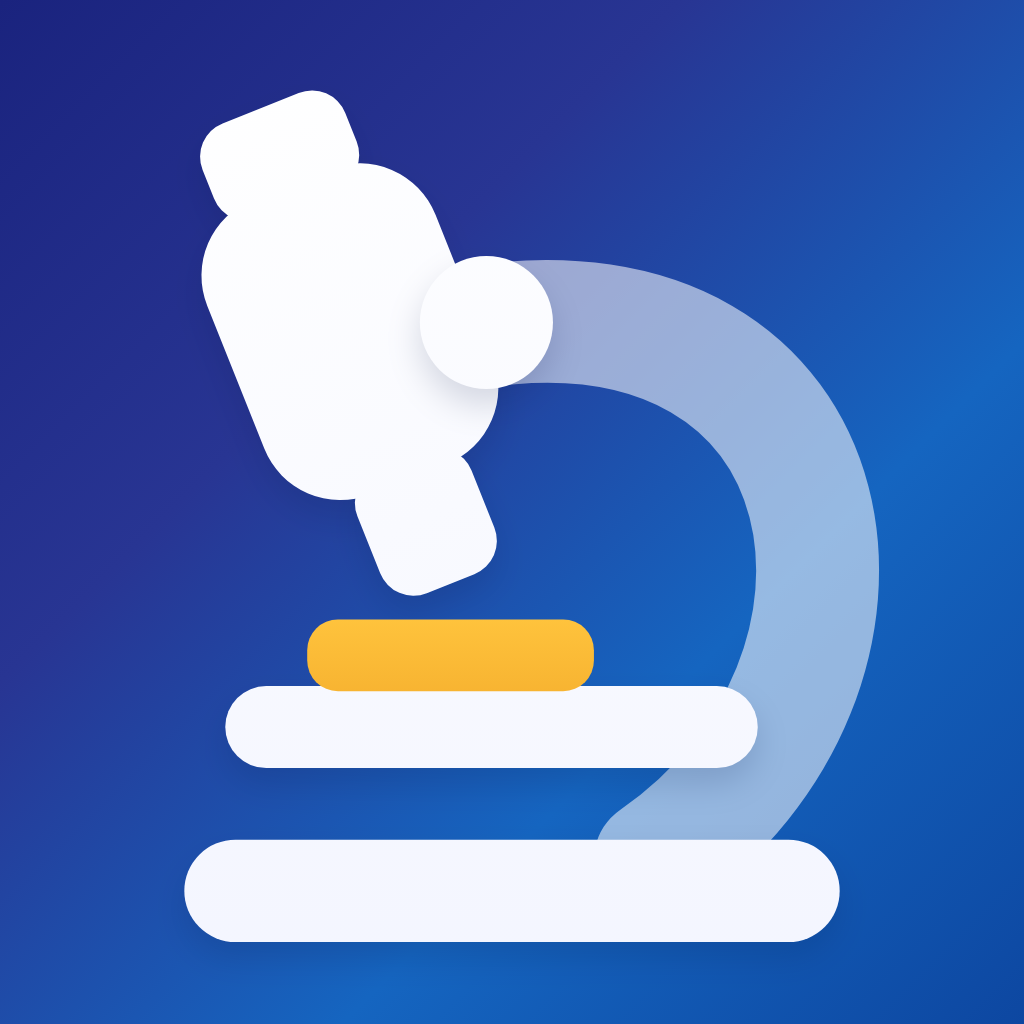
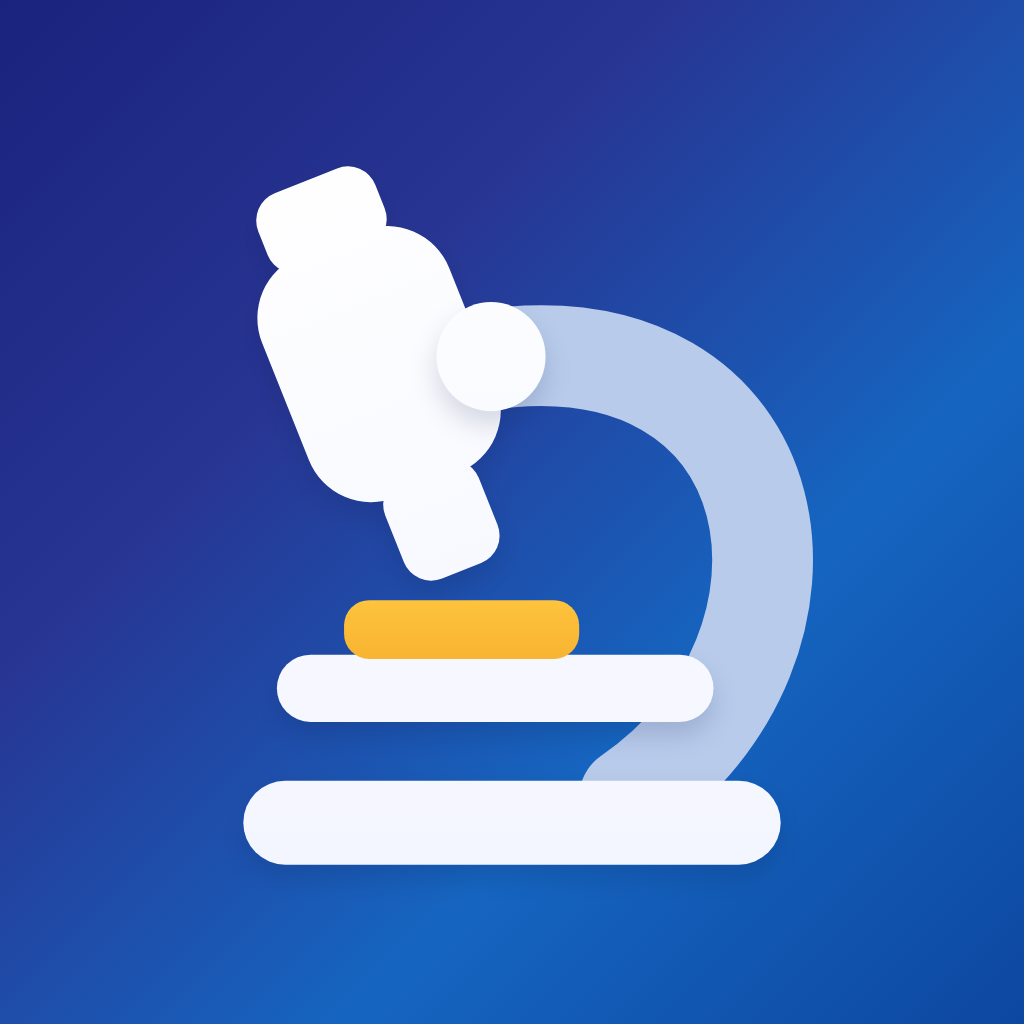
Icône : bras opaque et zone sûre adaptative respectée
Paramètre optionnel bras sur MicroscopeIcon (rendu par défaut inchangé). Calque de premier plan complet à 59 % de hauteur, icône carrée ramenée à 68 %.

Changed region(s): [[0.1562, 0.0625, 0.875, 0.9375], [0.4688, 0.4688, 0.5, 0.5312], [0.4375, 0.4375, 0.4688, 0.4688]]

diff --git a/tool/generer_icone_test.dart b/tool/generer_icone_test.dart
@@ -21,6 +21,9 @@ const _degrade = LinearGradient(
   ],
 );
 
+// Bras plein (blanc bleuté), lisible sur tous les fonds.
+const _bras = Color(0xFFB9CBEB);
+
 void main() {
   final cle = GlobalKey();
 
@@ -30,6 +33,7 @@ void main() {
     int px, {
     required bool fond,
     required double part, // taille du widget relative au carré
+    Color? bras,
   }) async {
     tester.view.devicePixelRatio = 1;
     tester.view.physicalSize = Size(px.toDouble(), px.toDouble());
@@ -43,7 +47,7 @@ void main() {
             height: px.toDouble(),
             decoration: fond ? const BoxDecoration(gradient: _degrade) : null,
             alignment: Alignment.center,
-            child: MicroscopeIcon(size: px * part),
+            child: MicroscopeIcon(size: px * part, bras: bras),
           ),
         ),
       ),
@@ -61,19 +65,19 @@ void main() {
   testWidgets('génère les icônes', (tester) async {
     addTearDown(tester.view.reset);
     // Le dessin occupe ~70 % de son carré.
-    await rendre(tester, 'assets/icon.png', 1024, fond: true, part: 1.0);
-    // Zone sûre adaptative Android : 66 % (0,70 x 0,93 = 65 %).
+    await rendre(tester, 'assets/icon.png', 1024, fond: true, part: 0.82, bras: _bras);
+    // Zone sûre adaptative Android : 66 % (silhouette ~83 % du widget : 0,70 x 0,83 = 58 %).
     await rendre(tester, 'assets/icon_foreground.png', 1024,
-        fond: false, part: 0.93);
+        fond: false, part: 0.70, bras: _bras);
     for (final t in [192, 512]) {
-      await rendre(tester, 'web/icons/Icon-$t.png', t, fond: true, part: 1.0);
-      // Maskable : contenu dans 80 % (0,70 x 1,0 = 70 %).
+      await rendre(tester, 'web/icons/Icon-$t.png', t, fond: true, part: 0.82, bras: _bras);
+      // Maskable : contenu dans 80 % (~68 %).
       await rendre(tester, 'web/icons/Icon-maskable-$t.png', t,
-          fond: true, part: 1.0);
+          fond: true, part: 0.82, bras: _bras);
     }
-    await rendre(tester, 'web/favicon.png', 48, fond: true, part: 1.1);
+    await rendre(tester, 'web/favicon.png', 48, fond: true, part: 0.95, bras: _bras);
     for (final t in [512, 192, 48]) {
-      await rendre(tester, 'captures/_apercu_$t.png', t, fond: true, part: 1.0);
+      await rendre(tester, 'captures/_apercu_$t.png', t, fond: true, part: 0.82, bras: _bras);
     }
   });
 }

diff --git a/lib/widgets/microscope_icon.dart b/lib/widgets/microscope_icon.dart
@@ -20,24 +20,29 @@ class MicroscopeIcon extends StatelessWidget {
     this.size = 64,
     this.color = Colors.white,
     this.accent = LaboPalette.touche,
+    this.bras,
   });
 
   final double size;
   final Color color;
   final Color accent;
 
+  /// Couleur pleine du bras (sinon : blanc translucide, qui prend le fond).
+  final Color? bras;
+
   @override
   Widget build(BuildContext context) => CustomPaint(
         size: Size.square(size),
-        painter: _MicroscopePainter(color, accent),
+        painter: _MicroscopePainter(color, accent, bras),
       );
 }
 
 class _MicroscopePainter extends CustomPainter {
-  _MicroscopePainter(this.color, this.accent);
+  _MicroscopePainter(this.color, this.accent, this.bras);
 
   final Color color;
   final Color accent;
+  final Color? bras;
 
   /// Inclinaison du tube (vers la gauche, bras à droite).
   static const double _tilt = -0.38;
@@ -64,7 +69,7 @@ class _MicroscopePainter extends CustomPainter {
     // Ton de derrière : le blanc rendu translucide, il prend la teinte du fond.
     final back = Paint()
       ..isAntiAlias = true
-      ..color = color.withValues(alpha: 0.55)
+      ..color = bras ?? color.withValues(alpha: 0.55)
       ..style = PaintingStyle.stroke
       ..strokeWidth = 12
       ..strokeCap = StrokeCap.round;
@@ -124,6 +129,6 @@ class _MicroscopePainter extends CustomPainter {
 
   @override
   bool shouldRepaint(_MicroscopePainter old) =>
-      old.color != color || old.accent != accent;
+      old.color != color || old.accent != accent || old.bras != bras;
 }
 
